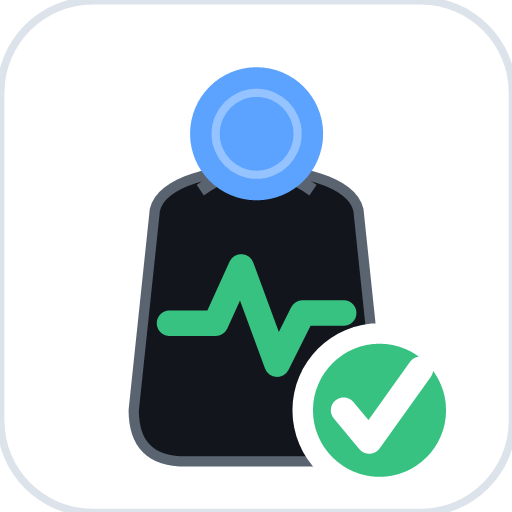
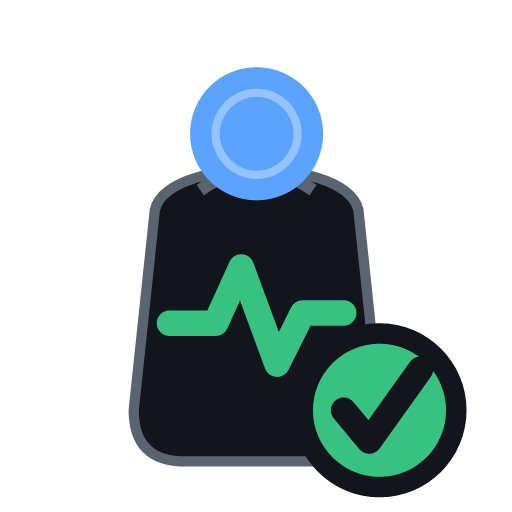
feat: 블로그 초안 개선(휴장일 처리, 블로거 톤+SEO 키워드) + 파비콘 투명배경
- KR_MARKET_HOLIDAYS_2026 추가, 주말/공휴일에는 정상 초안 대신 휴장 안내만 반환
  (매년 갱신 필요, 출처는 코드 주석에 명시)
- 블로그 초안 문체를 딱딱한 리포트체에서 블로거 말투로 전환, 국내증시 관련
  실제 검색량 많은 단어(어닝서프라이즈/어닝쇼크/특징테마/장전브리핑 등) 반영,
  하단 해시태그 추가(네이버 검색노출용)
- favicon-16/32.png, icon-512.png: 흰 배경 대신 투명 배경으로 변경(브라우저 탭
  색상에 자연스럽게 어울리도록). apple-touch-icon.png는 애플 가이드라인상
  투명 배경이 iOS에서 검은 배경으로 깨져 보일 수 있어 기존 흰 배경 유지

Changed region(s): [[0.0, 0.0, 1.0, 1.0]]

diff --git a/app.py b/app.py
@@ -800,14 +800,45 @@ def _earnings_items():
     return items
 
 
+# 2026년 KRX 휴장일(설날/추석/대체공휴일 포함) - 매년 갱신 필요.
+# 출처: upward-curve.co.kr 2026년 주식시장 휴장일 정리(2차 자료) - 공식 KRX 공지로
+# 한 번 더 대조 확인 권장. 주말은 now.weekday()로 별도 처리하므로 여기엔 평일 휴장일만.
+KR_MARKET_HOLIDAYS_2026 = {
+    "2026-01-01", "2026-02-16", "2026-02-17", "2026-02-18",
+    "2026-03-02", "2026-05-01", "2026-05-05", "2026-05-25",
+    "2026-06-03", "2026-08-17", "2026-09-24", "2026-09-25",
+    "2026-10-05", "2026-10-09", "2026-12-25", "2026-12-31",
+}
+
+
+def _is_market_holiday(now) -> bool:
+    if now.weekday() >= 5:  # 토(5)/일(6)
+        return True
+    return now.strftime("%Y-%m-%d") in KR_MARKET_HOLIDAYS_2026
+
+
+def _earning_tag(pct):
+    if pct is None:
+        return ""
+    if pct >= 20:
+        return " (어닝서프라이즈 \U0001F389)"
+    if pct <= -20:
+        return " (어닝쇼크 \U0001F631)"
+    return ""
+
+
 def _blog_draft_text():
     """'장 열리기전 체크포인트' 블로그 초안(제목+본문) 생성.
     네이버 블로그 자동 포스팅 API는 2020년에 종료되어(직접 확인함) 발행은 수동으로
-    해야 하지만, 초안은 매일 최신 데이터로 자동 완성해 복사만 하면 되게 한다."""
+    해야 하지만, 초안은 매일 최신 데이터로 자동 완성해 복사만 하면 되게 한다.
+    주말/공휴일(휴장일)에는 장 소식이 없으므로 별도 안내 문구만 반환한다."""
     from datetime import datetime, timezone, timedelta
     KST = timezone(timedelta(hours=9))
     now = datetime.now(KST)
-    title = f"{now.month}월 {now.day}일 장 열리기전 체크포인트"
+    title = f"{now.month}월 {now.day}일 장전 체크포인트 | 국내증시 브리핑"
+
+    if _is_market_holiday(now):
+        return title, "오늘은 국내증시 휴장일이라 특별히 정리할 소식이 없어요. 다음 개장일에 다시 올게요!"
 
     conn = _conn()
     disclosures = db.get_recent_disclosures(conn, limit=8)
@@ -820,24 +851,28 @@ def _blog_draft_text():
     for it in disclosures:
         it["name"] = _name_of(it["code"])
 
-    lines = ["어제까지 새로 공시된 실적과 시장 신호를 정리했습니다.", ""]
+    lines = [
+        "좋은 아침입니다 \U0001F44B 오늘 장 시작 전에 체크하면 좋을 국내증시 소식,",
+        "코스피·코스닥 실적 발표랑 특징테마 위주로 정리해봤어요.",
+        "",
+    ]
 
-    lines.append("[실적 발표]")
+    lines.append("\U0001F4CA 실적 발표 브리핑 (어닝서프라이즈·어닝쇼크 체크)")
     for it in disclosures[:5]:
         yoy, qoq = it.get("rev_yoy"), it.get("rev_qoq")
         if yoy is not None:
-            tag = f"매출 YoY {yoy:+.1f}%"
+            tag = f"매출 전년동기대비 {yoy:+.1f}%{_earning_tag(yoy)}"
         elif qoq is not None:
-            tag = f"매출 QoQ {qoq:+.1f}%"
+            tag = f"매출 전분기대비 {qoq:+.1f}%{_earning_tag(qoq)}"
         else:
-            tag = "매출 데이터 부족(금융업 등)"
-        lines.append(f"- {it['name']}({it['code']}) {it['year']}년 {it['quarter']}분기: {tag}")
+            tag = "매출 데이터 부족(금융업 등 업종 특성)"
+        lines.append(f"- {it['name']}({it['code']}) {it['year']}년 {it['quarter']}분기 실적: {tag}")
     lines.append("")
 
     anomalies = [(r["name"], r["code"], f) for r in rk for f in (r.get("flags") or [])]
     if anomalies:
         anomalies.sort(key=lambda x: 0 if x[2]["emoji"] == "\U0001F534" else 1)
-        lines.append("[이상신호 포착]")
+        lines.append("\U0001F6A9 조심해서 봐야 할 이상신호 종목")
         for name, code, f in anomalies[:3]:
             lines.append(f"- {name}({code}) {f['label']}: {f['text']}")
         lines.append("")
@@ -845,15 +880,19 @@ def _blog_draft_text():
     themes = [r for r in _cache["theme_perf"] if r.get("used", 0) >= 3 and r["count"] >= 8]
     themes.sort(key=lambda r: (r["ret_1m"] is not None, r["ret_1m"]), reverse=True)
     if themes:
-        lines.append("[요즘 강세 테마 (최근 1개월)]")
+        lines.append("\U0001F525 요즘 주도테마 · 특징테마 (최근 1개월 수익률)")
         for t in themes[:3]:
             lines.append(f"- {t['name']}: {t['ret_1m']:+.1f}%")
         lines.append("")
 
-    lines.append(f"더 많은 종목과 상세 데이터는 머니체크업에서 무료로 확인하실 수 있습니다.")
-    lines.append(f"\U0001F449 {BASE_URL}/")
+    lines.append("전 종목 스크리닝, 재무제표, 회계감사의견까지 더 자세한 데이터는")
+    lines.append(f"머니체크업에서 무료로 확인하실 수 있어요 \U0001F449 {BASE_URL}/")
     lines.append("")
-    lines.append("※ 본 내용은 공개 데이터를 정리한 정보 제공이며 특정 종목의 매수·매도 권유가 아닙니다.")
+    lines.append("※ 이 글은 공개 데이터를 정리한 정보 제공용 콘텐츠이며, 특정 종목에 대한")
+    lines.append("매수·매도 추천이 아닙니다. 투자 판단과 책임은 본인에게 있습니다.")
+    lines.append("")
+    lines.append("#국내증시 #코스피 #코스닥 #오늘의증시 #장전브리핑 #실적발표 "
+                  "#어닝서프라이즈 #특징주 #특징테마 #머니체크업")
     return title, "\n".join(lines)
 
 
